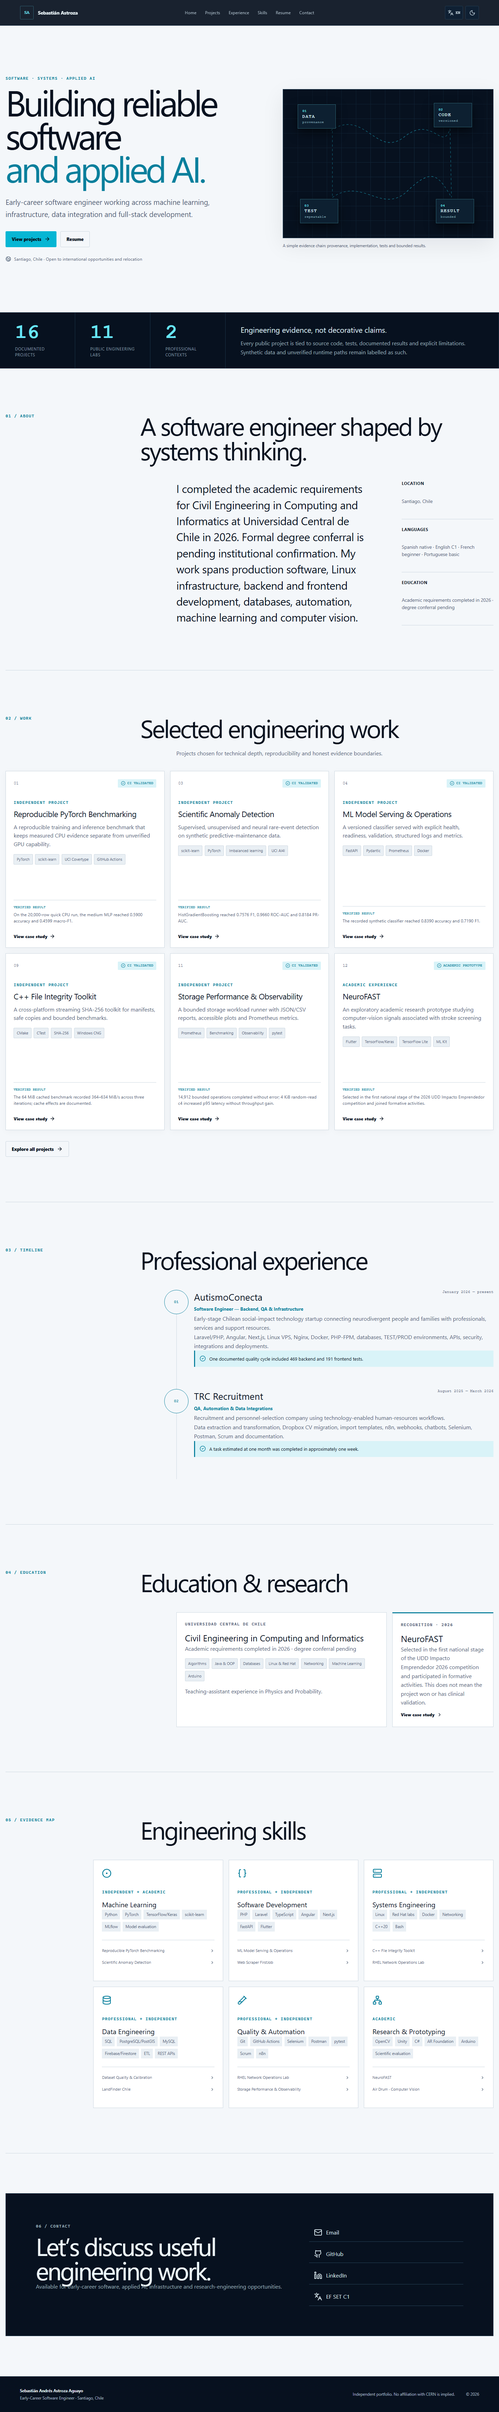
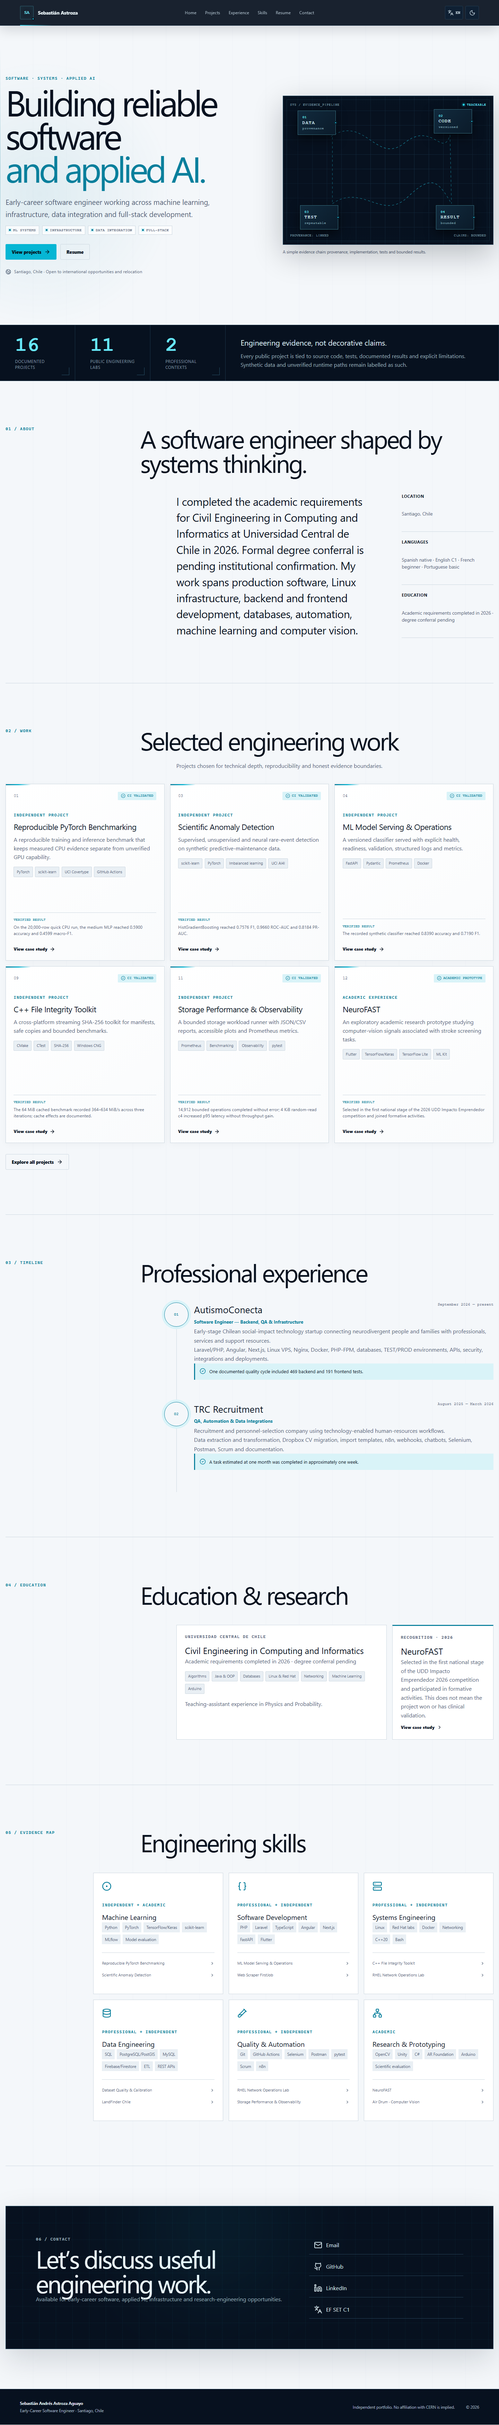
feat: refine portfolio design and correct experience details

diff --git a/src/styles.css b/src/styles.css
@@ -35,7 +35,7 @@
 
 * { box-sizing: border-box; }
 html { scroll-behavior: smooth; background: var(--bg); }
-body { min-width: 320px; min-height: 100vh; margin: 0; color: var(--ink); background: var(--bg); }
+body { min-width: 320px; min-height: 100vh; margin: 0; color: var(--ink); background-color: var(--bg); background-image: radial-gradient(circle at 8% 8%, color-mix(in srgb, var(--accent) 9%, transparent), transparent 24rem), linear-gradient(90deg, transparent 0, transparent calc(100% - 1px), color-mix(in srgb, var(--line) 32%, transparent) 100%); background-size: auto, min(8vw, 96px) 100%; }
 button, input, select { font: inherit; }
 button, a { -webkit-tap-highlight-color: transparent; }
 button { cursor: pointer; }
@@ -48,12 +48,16 @@ a { color: inherit; }
 .skip-link:focus { top: 1rem; }
 .eyebrow, .mono-label { margin: 0 0 .7rem; color: var(--accent); font-family: ui-monospace, "Cascadia Code", Consolas, monospace; font-size: .72rem; font-weight: 700; letter-spacing: .14em; text-transform: uppercase; }
 
-.site-header { position: sticky; top: 0; z-index: 50; min-height: 74px; display: grid; grid-template-columns: 1fr auto 1fr; align-items: center; gap: 1.5rem; padding: .9rem clamp(1rem, 4vw, 4.5rem); color: #e9f4f8; background: rgb(7 17 31 / .93); border-bottom: 1px solid #193247; backdrop-filter: blur(18px); }
+.site-header { position: sticky; top: 0; z-index: 50; min-height: 74px; display: grid; grid-template-columns: 1fr auto 1fr; align-items: center; gap: 1.5rem; padding: .9rem clamp(1rem, 4vw, 4.5rem); color: #e9f4f8; background: rgb(7 17 31 / .93); border-bottom: 1px solid #193247; box-shadow: 0 12px 36px rgb(3 11 20 / .14); backdrop-filter: blur(18px); }
+.site-header::after { position: absolute; bottom: -1px; left: clamp(1rem, 4vw, 4.5rem); width: 92px; height: 2px; content: ''; background: linear-gradient(90deg, #22d3ee, transparent); }
 .brand { display: inline-flex; align-items: center; gap: .8rem; width: max-content; text-decoration: none; }
-.brand span { display: grid; place-items: center; width: 39px; height: 39px; color: #67e8f9; border: 1px solid #2f6171; border-radius: 2px; font: 700 .8rem ui-monospace, monospace; }
+.brand span { position: relative; display: grid; place-items: center; width: 39px; height: 39px; color: #67e8f9; border: 1px solid #2f6171; border-radius: 2px; font: 700 .8rem ui-monospace, monospace; box-shadow: inset 0 0 18px rgb(34 211 238 / .08); }
+.brand span::after { position: absolute; right: -3px; bottom: -3px; width: 7px; height: 7px; content: ''; background: #22d3ee; border: 2px solid #07111f; }
 .brand b { font-size: .88rem; letter-spacing: -.01em; }
 .nav-links { display: flex; align-items: center; gap: .15rem; }
-.nav-links button { padding: .55rem .7rem; color: #a9bac6; background: transparent; border: 0; border-radius: 3px; font-size: .78rem; }
+.nav-links button { position: relative; padding: .55rem .7rem; color: #a9bac6; background: transparent; border: 0; border-radius: 3px; font-size: .78rem; }
+.nav-links button::after { position: absolute; right: .7rem; bottom: .25rem; left: .7rem; height: 1px; content: ''; background: #67e8f9; transform: scaleX(0); transition: transform .2s ease; }
+.nav-links button:hover::after { transform: scaleX(1); }
 .nav-links button:hover { color: white; background: #14263a; }
 .header-actions { justify-self: end; display: flex; gap: .45rem; }
 .icon-button { min-width: 39px; min-height: 39px; display: inline-flex; align-items: center; justify-content: center; gap: .35rem; padding: .45rem; color: #c7d6df; background: #0f2033; border: 1px solid #233c51; border-radius: 3px; }
@@ -61,10 +65,15 @@ a { color: inherit; }
 .language-button span { font: 700 .68rem ui-monospace, monospace; }.menu-button { display: none; }
 
 .section-frame, .content-section, .page-main { width: min(1440px, calc(100% - 2rem)); margin-inline: auto; }
-.hero { min-height: 720px; display: grid; grid-template-columns: 1.08fr .92fr; align-items: center; gap: clamp(2rem, 6vw, 7rem); padding: clamp(5rem, 10vw, 9rem) 0; }
+.hero { position: relative; min-height: 720px; display: grid; grid-template-columns: 1.08fr .92fr; align-items: center; gap: clamp(2rem, 6vw, 7rem); padding: clamp(5rem, 10vw, 9rem) 0; }
+.hero::before { position: absolute; top: 7%; bottom: 7%; left: -1rem; width: 1px; content: ''; background: linear-gradient(transparent, var(--accent), transparent); opacity: .45; }
+.hero-copy { position: relative; z-index: 1; }
 .hero h1 { margin: 0; max-width: 860px; font-size: clamp(3.3rem, 7.2vw, 7.4rem); line-height: .92; letter-spacing: -.073em; }
 .hero h1 em { color: var(--accent); font-style: normal; }
 .hero-lead { max-width: 690px; margin: 2rem 0; color: var(--muted); font-size: clamp(1.05rem, 2vw, 1.3rem); line-height: 1.7; }
+.hero-domain-row { display: flex; flex-wrap: wrap; gap: .55rem; margin: -1rem 0 1.7rem; }
+.hero-domain-row span { display: inline-flex; align-items: center; gap: .45rem; padding: .35rem .55rem; color: var(--muted); background: color-mix(in srgb, var(--surface) 76%, transparent); border: 1px solid var(--line); font: 700 .65rem ui-monospace, monospace; letter-spacing: .03em; text-transform: uppercase; }
+.hero-domain-row span::before { width: 5px; height: 5px; content: ''; background: var(--accent); box-shadow: 0 0 0 3px var(--accent-soft); }
 .hero-actions { display: flex; flex-wrap: wrap; gap: .7rem; }
 .button { display: inline-flex; align-items: center; justify-content: center; gap: .55rem; min-height: 45px; padding: .75rem 1.05rem; border: 1px solid transparent; border-radius: 3px; font-size: .8rem; font-weight: 800; text-decoration: none; }
 .button.primary { color: #031018; background: var(--accent-bright); }.button.primary:hover { background: #67e8f9; }
@@ -72,15 +81,22 @@ a { color: inherit; }
 .availability { display: flex; align-items: center; gap: .55rem; margin: 1.6rem 0 0; color: var(--muted); font-size: .78rem; }
 
 .evidence-visual { margin: 0; }
-.visual-grid { position: relative; height: min(430px, 65vw); min-height: 360px; overflow: hidden; background-color: var(--navy); background-image: linear-gradient(#142b3f 1px, transparent 1px), linear-gradient(90deg, #142b3f 1px, transparent 1px); background-size: 42px 42px; border: 1px solid #264157; box-shadow: var(--shadow); }
+.visual-grid { position: relative; height: min(430px, 65vw); min-height: 360px; overflow: hidden; background-color: var(--navy); background-image: linear-gradient(#142b3f 1px, transparent 1px), linear-gradient(90deg, #142b3f 1px, transparent 1px); background-size: 42px 42px; border: 1px solid #31566d; box-shadow: 0 28px 80px rgb(3 11 20 / .24), inset 0 0 80px rgb(34 211 238 / .035); }
+.visual-grid::before { position: absolute; inset: 10px; z-index: 3; content: ''; border: 1px solid rgb(103 232 249 / .12); pointer-events: none; }
 .visual-grid::after { content: ''; position: absolute; inset: 0; background: radial-gradient(circle at 55% 50%, transparent 5%, #07111f99 80%); pointer-events: none; }
+.visual-header, .visual-footer { position: absolute; z-index: 4; right: 1.25rem; left: 1.25rem; display: flex; justify-content: space-between; color: #71909f; font: 700 .57rem ui-monospace, monospace; letter-spacing: .08em; }
+.visual-header { top: 1.25rem; }.visual-footer { bottom: 1.25rem; }
+.trace-state { display: inline-flex; align-items: center; gap: .4rem; color: #67e8f9; }
+.trace-state::before { width: 6px; height: 6px; content: ''; background: #22d3ee; border-radius: 50%; box-shadow: 0 0 0 4px rgb(34 211 238 / .12); }
 .visual-grid svg { position: absolute; inset: 8%; width: 84%; height: 84%; fill: none; stroke: #22d3ee; stroke-width: 1.5; stroke-dasharray: 7 7; opacity: .65; }
-.node { position: absolute; z-index: 2; width: 110px; display: grid; gap: .15rem; padding: .75rem; color: #dff9ff; background: #0d2031; border: 1px solid #2e6574; box-shadow: 0 12px 30px #0008; }
+.node { position: absolute; z-index: 2; width: 110px; display: grid; gap: .15rem; padding: .75rem; color: #dff9ff; background: linear-gradient(135deg, #112a3d, #0b1b2a); border: 1px solid #3a7585; box-shadow: 0 12px 30px #0008; }
+.node::after { position: absolute; right: -4px; top: 50%; width: 7px; height: 7px; content: ''; background: #22d3ee; border: 2px solid #07111f; transform: translateY(-50%) rotate(45deg); }
 .node span { color: #67e8f9; font: 700 .65rem ui-monospace, monospace; }.node b { font: 700 .82rem ui-monospace, monospace; letter-spacing: .1em; }.node small { color: #7fa2b0; font: .65rem ui-monospace, monospace; }.node-a { left: 7%; top: 10%; }.node-b { right: 10%; top: 9%; }.node-c { left: 8%; bottom: 10%; }.node-d { right: 9%; bottom: 10%; }
 .evidence-visual figcaption { margin-top: .8rem; color: var(--muted); font-size: .72rem; line-height: 1.5; }
 
 .proof-band { display: grid; grid-template-columns: repeat(3, .55fr) 2fr; align-items: stretch; color: #d7e8ef; background: var(--navy); border-block: 1px solid #1a3449; }
-.proof-band > div { display: flex; min-height: 160px; flex-direction: column; justify-content: center; padding: 1.5rem clamp(1rem, 3vw, 3rem); border-right: 1px solid #1a3449; }
+.proof-band > div { position: relative; display: flex; min-height: 160px; flex-direction: column; justify-content: center; padding: 1.5rem clamp(1rem, 3vw, 3rem); border-right: 1px solid #1a3449; }
+.proof-band > div:not(.proof-copy)::after { position: absolute; right: 1rem; bottom: 1rem; width: 22px; height: 22px; content: ''; border-right: 1px solid #285168; border-bottom: 1px solid #285168; }
 .proof-number { color: #67e8f9; font: 600 clamp(2.5rem, 4vw, 4.5rem)/1 ui-monospace, monospace; }.proof-band > div > span:last-child { margin-top: .55rem; color: #879daa; font-size: .72rem; text-transform: uppercase; letter-spacing: .08em; }
 .proof-copy h2 { margin: 0 0 .6rem; font-size: 1.35rem; }.proof-copy p { margin: 0; color: #9db0bc; line-height: 1.6; }
 
@@ -92,16 +108,16 @@ a { color: inherit; }
 .about-grid { display: grid; grid-template-columns: 1.35fr .65fr; gap: clamp(2rem, 7vw, 8rem); margin-left: 35%; }.large-copy { margin: 0; font-size: clamp(1.2rem, 2.5vw, 2rem); line-height: 1.45; letter-spacing: -.02em; }
 .about-facts { display: grid; gap: 1.3rem; }.about-facts div { display: grid; gap: .35rem; padding-bottom: 1rem; border-bottom: 1px solid var(--line); }.about-facts b { font-size: .72rem; text-transform: uppercase; letter-spacing: .08em; }.about-facts span { color: var(--muted); font-size: .85rem; line-height: 1.5; }
 
-.project-grid { display: grid; grid-template-columns: repeat(3, 1fr); gap: 1rem; }.project-card { min-height: 510px; display: flex; flex-direction: column; padding: 1.4rem; background: var(--surface); border: 1px solid var(--line); box-shadow: 0 4px 20px rgb(7 17 31 / .035); transition: transform .2s ease, border-color .2s ease, box-shadow .2s ease; }.project-card:hover { transform: translateY(-3px); border-color: var(--accent); box-shadow: var(--shadow); }
+.project-grid { display: grid; grid-template-columns: repeat(3, 1fr); gap: 1rem; }.project-card { position: relative; min-height: 510px; display: flex; overflow: hidden; flex-direction: column; padding: 1.4rem; background: linear-gradient(145deg, var(--surface), color-mix(in srgb, var(--surface-2) 26%, var(--surface))); border: 1px solid var(--line); box-shadow: 0 4px 20px rgb(7 17 31 / .035); transition: transform .2s ease, border-color .2s ease, box-shadow .2s ease; }.project-card::before { position: absolute; top: 0; right: 0; left: 0; height: 3px; content: ''; background: linear-gradient(90deg, var(--accent), var(--accent-bright), transparent 72%); transform: scaleX(.22); transform-origin: left; transition: transform .25s ease; }.project-card:hover { transform: translateY(-4px); border-color: var(--accent); box-shadow: var(--shadow); }.project-card:hover::before { transform: scaleX(1); }
 .project-card-top { display: flex; align-items: center; justify-content: space-between; gap: .8rem; margin-bottom: 2.2rem; }.project-index { color: var(--muted); font: .72rem ui-monospace, monospace; }.status-badge { display: inline-flex; align-items: center; gap: .35rem; width: max-content; padding: .35rem .55rem; color: var(--accent); background: var(--accent-soft); border-radius: 2px; font: 700 .61rem ui-monospace, monospace; text-transform: uppercase; letter-spacing: .04em; }.status-implemented-runtime-blocked { color: #a35d10; background: #fff1d5; }.dark .status-implemented-runtime-blocked { color: #fdba74; background: #42250f; }.status-in-development { color: #6d5ab1; background: #ede9fe; }.dark .status-in-development { color: #c4b5fd; background: #27214d; }
 .project-card h3 { margin: 0 0 .8rem; font-size: 1.45rem; line-height: 1.1; letter-spacing: -.025em; }.project-card > p:not(.mono-label) { color: var(--muted); line-height: 1.55; }.tag-list { display: flex; flex-wrap: wrap; gap: .4rem; margin: 1rem 0; }.tag-list span { padding: .35rem .5rem; color: var(--muted); background: var(--surface-2); border: 1px solid var(--line); border-radius: 2px; font-size: .68rem; }
 .project-result { display: grid; gap: .35rem; margin-top: auto; padding: .9rem 0; border-top: 1px solid var(--line); }.project-result b { color: var(--accent); font: 700 .64rem ui-monospace, monospace; text-transform: uppercase; }.project-result span { color: var(--muted); font-size: .78rem; line-height: 1.45; }.card-link, .text-link { display: inline-flex; align-items: center; gap: .4rem; width: max-content; margin-top: .8rem; color: var(--ink); font-size: .78rem; font-weight: 800; text-decoration: none; }.card-link:hover, .text-link:hover { color: var(--accent); }.section-cta { margin-top: 2rem; }
 
-.timeline { margin-left: 35%; border-left: 1px solid var(--line); }.timeline article { position: relative; display: grid; grid-template-columns: 70px 1fr; gap: 1rem; margin-left: -36px; padding-bottom: 4rem; }.timeline-marker { display: grid; place-items: start center; }.timeline-marker span { display: grid; place-items: center; width: 70px; height: 70px; color: var(--accent); background: var(--bg); border: 1px solid var(--accent); border-radius: 50%; font: 700 .7rem ui-monospace, monospace; }.timeline-heading { display: flex; justify-content: space-between; gap: 2rem; }.timeline-heading h3 { margin: 0; font-size: 1.7rem; }.timeline-heading p { margin: .3rem 0; color: var(--accent); font-size: .82rem; font-weight: 700; }.timeline-heading time { color: var(--muted); font: .7rem ui-monospace, monospace; white-space: nowrap; }.timeline-content > p { color: var(--muted); line-height: 1.65; }.evidence-callout { display: flex; align-items: flex-start; gap: .6rem; padding: .85rem; color: var(--ink); background: var(--accent-soft); border-left: 3px solid var(--accent); font-size: .82rem; }.evidence-callout svg { flex: 0 0 auto; color: var(--accent); }
+.timeline { margin-left: 35%; border-left: 1px solid var(--line); }.timeline article { position: relative; display: grid; grid-template-columns: 70px 1fr; gap: 1rem; margin-left: -36px; padding-bottom: 4rem; }.timeline-marker { display: grid; place-items: start center; }.timeline-marker span { display: grid; place-items: center; width: 70px; height: 70px; color: var(--accent); background: var(--bg); border: 1px solid var(--accent); border-radius: 50%; box-shadow: 0 0 0 7px var(--accent-soft); font: 700 .7rem ui-monospace, monospace; }.timeline-heading { display: flex; justify-content: space-between; gap: 2rem; }.timeline-heading h3 { margin: 0; font-size: 1.7rem; }.timeline-heading p { margin: .3rem 0; color: var(--accent); font-size: .82rem; font-weight: 700; }.timeline-heading time { color: var(--muted); font: .7rem ui-monospace, monospace; white-space: nowrap; }.timeline-content > p { color: var(--muted); line-height: 1.65; }.evidence-callout { display: flex; align-items: flex-start; gap: .6rem; padding: .85rem; color: var(--ink); background: var(--accent-soft); border-left: 3px solid var(--accent); font-size: .82rem; }.evidence-callout svg { flex: 0 0 auto; color: var(--accent); }
 .education-grid { display: grid; grid-template-columns: 1.35fr .65fr; gap: 1rem; margin-left: 35%; }.education-grid article { padding: 1.5rem; background: var(--surface); border: 1px solid var(--line); }.education-grid h3 { font-size: 1.55rem; }.education-grid p { color: var(--muted); line-height: 1.6; }.recognition-card { border-top: 3px solid var(--accent) !important; }
 .skills-grid { display: grid; grid-template-columns: repeat(3, 1fr); gap: 1rem; margin-left: 18%; }.skills-grid article { min-height: 350px; padding: 1.5rem; background: var(--surface); border: 1px solid var(--line); }.skills-grid article > svg { width: 28px; height: 28px; margin-bottom: 2rem; color: var(--accent); }.skills-grid h3 { font-size: 1.25rem; }.skills-grid ul { display: flex; flex-wrap: wrap; gap: .4rem; padding: 0; list-style: none; }.skills-grid li { padding: .35rem .5rem; color: var(--muted); background: var(--surface-2); font-size: .72rem; }.skill-links { display: grid; gap: .4rem; margin-top: 1.5rem; padding-top: 1rem; border-top: 1px solid var(--line); }.skill-links a { display: flex; min-height: 28px; align-items: center; justify-content: space-between; color: var(--muted); font-size: .7rem; text-decoration: none; }.skill-links a:hover { color: var(--accent); }
 
-.contact-section { width: min(1440px, calc(100% - 2rem)); display: grid; grid-template-columns: 1.25fr .75fr; gap: 3rem; margin: clamp(4rem, 8vw, 8rem) auto; padding: clamp(2rem, 6vw, 6rem); color: #eff9fc; background: var(--navy); border: 1px solid #244157; }.contact-section h2 { max-width: 780px; margin: 0; font-size: clamp(2.6rem, 5vw, 5rem); line-height: .98; letter-spacing: -.055em; }.contact-section p { color: #9dafba; }.contact-links { display: grid; align-content: center; gap: .6rem; }.contact-links a { display: flex; align-items: center; gap: .7rem; padding: .85rem; color: #d9e8ee; border-bottom: 1px solid #28445a; text-decoration: none; }.contact-links a:hover { color: #67e8f9; }
+.contact-section { position: relative; width: min(1440px, calc(100% - 2rem)); display: grid; overflow: hidden; grid-template-columns: 1.25fr .75fr; gap: 3rem; margin: clamp(4rem, 8vw, 8rem) auto; padding: clamp(2rem, 6vw, 6rem); color: #eff9fc; background-color: var(--navy); background-image: linear-gradient(rgb(34 211 238 / .055) 1px, transparent 1px), linear-gradient(90deg, rgb(34 211 238 / .055) 1px, transparent 1px); background-size: 48px 48px; border: 1px solid #31566d; box-shadow: 0 30px 80px rgb(7 17 31 / .15); }.contact-section::before { position: absolute; top: -120px; left: 30%; width: 360px; height: 360px; content: ''; background: #22d3ee; border-radius: 50%; filter: blur(150px); opacity: .1; pointer-events: none; }.contact-section h2 { max-width: 780px; margin: 0; font-size: clamp(2.6rem, 5vw, 5rem); line-height: .98; letter-spacing: -.055em; }.contact-section p { color: #9dafba; }.contact-links { display: grid; align-content: center; gap: .6rem; }.contact-links a { display: flex; align-items: center; gap: .7rem; padding: .85rem; color: #d9e8ee; border-bottom: 1px solid #28445a; text-decoration: none; }.contact-links a:hover { color: #67e8f9; }
 
 .page-main { min-height: 80vh; padding: 5rem 0 8rem; }.page-hero { display: grid; grid-template-columns: .35fr 1fr; gap: 2rem; margin-bottom: 4rem; padding-bottom: 4rem; border-bottom: 1px solid var(--line); }.page-hero .eyebrow { grid-row: 1 / 3; }.page-hero h1 { grid-column: 2; }.page-hero > p:last-child { grid-column: 2; max-width: 800px; margin: 0; color: var(--muted); font-size: 1.05rem; line-height: 1.7; }
 .filter-panel { padding: 1.5rem; background: var(--surface); border: 1px solid var(--line); }.filter-heading { display: flex; align-items: flex-end; justify-content: space-between; gap: 1rem; }.filter-heading h2 { margin: 0; font-size: 1.7rem; }.text-button { padding: .5rem; color: var(--accent); background: transparent; border: 0; font-weight: 800; }.search-field { display: flex; align-items: center; gap: .7rem; margin-top: 1.5rem; padding: .4rem .8rem; background: var(--surface-2); border: 1px solid var(--line); }.search-field svg { color: var(--muted); }.search-field input { width: 100%; padding: .65rem 0; color: var(--ink); background: transparent; border: 0; outline: 0; }
@@ -122,7 +138,7 @@ footer { display: grid; grid-template-columns: 1fr auto auto; align-items: cente
 @media (max-width: 760px) {
   .site-header { min-height: 66px; padding: .75rem 1rem; }.brand b { display: none; }.nav-links { inset-block-start: 66px; }.language-button span { display: none; }
   .section-frame, .content-section, .page-main, .contact-section { width: min(100% - 1.2rem, 1440px); }.hero { min-height: auto; padding: 4.5rem 0; }.hero h1 { font-size: clamp(3rem, 15vw, 5rem); }.visual-grid { min-height: 310px; }.node { width: 94px; padding: .6rem; }.node b { font-size: .72rem; }
-  .proof-band { grid-template-columns: 1fr; }.proof-band > div { min-height: 120px; border-right: 0; border-bottom: 1px solid #1a3449; }.proof-copy { grid-column: auto; }
+  .proof-band { grid-template-columns: repeat(3, 1fr); }.proof-band > div { min-height: 108px; padding: 1rem .7rem; border-right: 1px solid #1a3449; border-bottom: 1px solid #1a3449; }.proof-band > div:nth-child(3) { border-right: 0; }.proof-band .proof-number { font-size: clamp(2rem, 10vw, 3rem); }.proof-band > div > span:last-child { font-size: .58rem; }.proof-copy { grid-column: 1 / -1; min-height: 150px !important; padding: 1.4rem 1rem !important; border-right: 0 !important; }
   .content-section { padding: 5rem 0; }.section-title, .page-hero { grid-template-columns: 1fr; gap: .8rem; }.page-hero .eyebrow { grid-row: auto; }.page-hero h1, .page-hero > p:last-child { grid-column: 1; }.section-intro, .about-grid, .timeline, .education-grid { margin-left: 0; }.about-grid, .education-grid, .contact-section, .detail-hero, .detail-layout { grid-template-columns: 1fr; }.timeline { margin-left: 34px; }.timeline-heading { flex-direction: column; gap: .4rem; }.project-grid, .skills-grid, .resume-grid { grid-template-columns: 1fr; }.project-card { min-height: 470px; }.contact-section { padding: 2rem 1.2rem; }.select-filters { grid-template-columns: 1fr; }.detail-hero { padding-top: 1rem; }.detail-layout { padding-top: 2rem; }.detail-aside { position: static; grid-row: 1; }.detail-content section { grid-template-columns: 38px 1fr; }.page-main { padding-top: 3rem; } footer { grid-template-columns: 1fr; gap: .8rem; }
 }
 

diff --git a/src/App.tsx b/src/App.tsx
@@ -51,7 +51,7 @@ const copy = {
 
 const experience = [
   {
-    company: 'AutismoConecta', period: { en: 'January 2026 — present', es: 'Enero 2026 — actualidad' },
+    company: 'AutismoConecta', period: { en: 'September 2026 — present', es: 'Septiembre 2026 — actualidad' },
     role: 'Software Engineer — Backend, QA & Infrastructure',
     description: {
       en: 'Early-stage Chilean social-impact technology startup connecting neurodivergent people and families with professionals, services and support resources.',
@@ -146,11 +146,13 @@ function Header({ language, setLanguage, theme, setTheme }: { language: Language
 function EvidenceVisual({ language }: { language: Language }) {
   return <figure className="evidence-visual" aria-labelledby="system-caption">
     <div className="visual-grid" aria-hidden="true">
+      <div className="visual-header"><span>SYS / EVIDENCE_PIPELINE</span><span className="trace-state">TRACEABLE</span></div>
       <div className="node node-a"><span>01</span><b>DATA</b><small>provenance</small></div>
       <div className="node node-b"><span>02</span><b>CODE</b><small>versioned</small></div>
       <div className="node node-c"><span>03</span><b>TEST</b><small>repeatable</small></div>
       <div className="node node-d"><span>04</span><b>RESULT</b><small>bounded</small></div>
       <svg viewBox="0 0 600 390" preserveAspectRatio="none"><path d="M105 90 C220 20 260 180 355 110 S485 160 510 85"/><path d="M110 300 C210 235 280 355 365 280 S470 230 515 300"/><path d="M110 92 L110 300 M510 85 L515 300"/></svg>
+      <div className="visual-footer"><span>PROVENANCE: LINKED</span><span>CLAIMS: BOUNDED</span></div>
     </div>
     <figcaption id="system-caption">{language === 'en' ? 'A simple evidence chain: provenance, implementation, tests and bounded results.' : 'Cadena simple de evidencia: procedencia, implementación, pruebas y resultados acotados.'}</figcaption>
   </figure>
@@ -219,11 +221,12 @@ function HomePage({ language }: { language: Language }) {
   return <main id="main-content">
     <section className="hero section-frame">
       <div className="hero-copy"><p className="eyebrow">{t.heroKicker}</p><h1>{t.heroTitleA}<br/><em>{t.heroTitleB}</em></h1><p className="hero-lead">{t.heroBody}</p>
+        <div className="hero-domain-row" aria-label={language === 'en' ? 'Engineering focus areas' : 'Áreas de enfoque de ingeniería'}>{['ML systems', 'Infrastructure', 'Data integration', 'Full-stack'].map((area) => <span key={area}>{area}</span>)}</div>
         <div className="hero-actions"><a className="button primary" href="#/projects">{t.viewProjects}<ArrowRight size={17}/></a><a className="button secondary" href="#/resume">{t.resume}</a></div>
         <p className="availability"><Globe2 size={16}/>{t.availability}</p></div>
       <EvidenceVisual language={language}/>
     </section>
-    <section className="proof-band"><div><span className="proof-number">16</span><span>{language === 'en' ? 'documented projects' : 'proyectos documentados'}</span></div><div><span className="proof-number">11</span><span>{language === 'en' ? 'public engineering labs' : 'laboratorios públicos'}</span></div><div><span className="proof-number">2</span><span>{language === 'en' ? 'professional contexts' : 'contextos profesionales'}</span></div><div className="proof-copy"><h2>{t.proofTitle}</h2><p>{t.proofBody}</p></div></section>
+    <section className="proof-band"><div><span className="proof-number">{projects.length}</span><span>{language === 'en' ? 'documented projects' : 'proyectos documentados'}</span></div><div><span className="proof-number">11</span><span>{language === 'en' ? 'public engineering labs' : 'laboratorios públicos'}</span></div><div><span className="proof-number">2</span><span>{language === 'en' ? 'professional contexts' : 'contextos profesionales'}</span></div><div className="proof-copy"><h2>{t.proofTitle}</h2><p>{t.proofBody}</p></div></section>
     <Section eyebrow="01 / About" title={t.aboutTitle}><div className="about-grid"><p className="large-copy">{t.aboutBody}</p><div className="about-facts"><div><b>{language === 'en' ? 'Location' : 'Ubicación'}</b><span>Santiago, Chile</span></div><div><b>{language === 'en' ? 'Languages' : 'Idiomas'}</b><span>{language === 'en' ? 'Spanish native · English C1 · French beginner · Portuguese basic' : 'Español nativo · Inglés C1 · Francés principiante · Portugués básico'}</span></div><div><b>{language === 'en' ? 'Education' : 'Educación'}</b><span>{t.academicPending}</span></div></div></div></Section>
     <Section eyebrow="02 / Work" title={t.featured} className="featured-section"><p className="section-intro">{t.featuredBody}</p><div className="project-grid featured-grid">{featured.map((project) => <ProjectCard key={project.slug} project={project} language={language}/>)}</div><a className="button secondary section-cta" href="#/projects">{t.allProjects}<ArrowRight size={17}/></a></Section>
     <Section id="experience" eyebrow="03 / Timeline" title={t.experience}><div className="timeline">{experience.map((item, index) => <article key={item.company}><div className="timeline-marker"><span>{String(index + 1).padStart(2, '0')}</span></div><div className="timeline-content"><div className="timeline-heading"><div><h3>{item.company}</h3><p>{item.role}</p></div><time>{item.period[language]}</time></div><p>{item.description[language]}</p><p>{item.details[language]}</p><div className="evidence-callout"><CheckCircle2 size={18}/><span>{item.result[language]}</span></div></div></article>)}</div></Section>

diff --git a/src/App.test.tsx b/src/App.test.tsx
@@ -17,7 +17,14 @@ describe('portfolio interactions', () => {
     fireEvent.click(screen.getByRole('button', { name: 'Cambiar a español' }))
     expect(screen.getByRole('heading', { name: /Construyendo software confiable/i })).toBeInTheDocument()
     expect(screen.getByText('Experiencia profesional')).toBeInTheDocument()
+    expect(screen.getByText('Septiembre 2026 — actualidad')).toBeInTheDocument()
     expect(localStorage.getItem('portfolio-language')).toBe('es')
+  })
+
+  it('uses the corrected Spanish UCEN augmented-reality project name', () => {
+    render(<ProjectExplorer language="es" />)
+    fireEvent.change(screen.getByLabelText('Buscar proyectos'), { target: { value: 'realidad aumentada' } })
+    expect(screen.getByRole('heading', { name: 'Realidad Aumentada UCEN' })).toBeInTheDocument()
   })
 
   it('toggles the accessible color theme', () => {

diff --git a/src/data/projects.ts b/src/data/projects.ts
@@ -249,7 +249,7 @@ export const projects: Project[] = [
     evidence: ['Public source repository', 'OpenCV implementation'],
   },
   {
-    slug: 'ucen-ar-prototype', name: 'UCEN Augmented Reality Prototype', categories: ['software', 'research'],
+    slug: 'ucen-ar-prototype', name: 'Realidad Aumentada UCEN', categories: ['software', 'research'],
     kind: 'Academic experience', status: 'Academic prototype', repo: 'https://github.com/sebastroza1/Prototipo-Realidad-Aumentada-Ucen-2026-08-20_21-53-25',
     languages: ['C#'], technologies: ['Unity', 'AR Foundation', 'ARCore', 'Image tracking'],
     overview: { en: 'A demonstrative academic augmented-reality prototype built with Unity and image tracking.', es: 'Prototipo académico demostrativo de realidad aumentada con Unity e image tracking.' },

diff --git a/PROJECT_EVIDENCE.md b/PROJECT_EVIDENCE.md
@@ -17,7 +17,7 @@ Audit date: 2026-10-29. “Public repository” means the portfolio links to ins
 | Storage Performance & Observability | [storage-performance-observability](https://github.com/sebastroza1/storage-performance-observability), `reports/RESULTS.md`, commit `39089ee`, CI run `40822967312` | Cached Python I/O on one host; not an SLO or distributed-storage result |
 | NeuroFAST | Owner-provided thesis/project description and UDD 2026 first-stage selection | Private academic prototype; non-clinical and not a medical device |
 | Air Drum · Computer Vision | [bateria-peroles](https://github.com/sebastroza1/bateria-peroles) | Public implementation; third-party asset licensing still needs a release audit |
-| UCEN Augmented Reality Prototype | [Prototipo-Realidad-Aumentada-Ucen](https://github.com/sebastroza1/Prototipo-Realidad-Aumentada-Ucen-2026-08-20_21-53-25) | Demonstrative academic prototype; no institutional deployment claim |
+| Realidad Aumentada UCEN | [Prototipo-Realidad-Aumentada-Ucen](https://github.com/sebastroza1/Prototipo-Realidad-Aumentada-Ucen-2026-08-20_21-53-25) | Demonstrative academic prototype; no institutional deployment claim |
 | LandFinder Chile | Owner-provided work-in-progress description | Private and in development; no metrics or production claim |
 | Web Scraper FirstJob | [Web_Scraper_firstJob](https://github.com/sebastroza1/Web_Scraper_firstJob) | Public source; live-site stability and CI coverage not claimed |
 

diff --git a/CONTENT_SOURCES.md b/CONTENT_SOURCES.md
@@ -16,7 +16,7 @@ When a higher-confidence source was unavailable, the site avoids a metric or use
 | Claim group | Source used | Public treatment |
 |---|---|---|
 | Name, location, contact links and international availability | Owner-provided portfolio brief | Published, except phone number |
-| AutismoConecta role, dates, responsibilities and 469 backend / 191 frontend test cycle | Owner-provided portfolio brief; private implementation details intentionally excluded | Published as professional experience, without infrastructure secrets or private code |
+| AutismoConecta role, September 2026 start, responsibilities and 469 backend / 191 frontend test cycle | Owner-provided portfolio brief and direct correction on 2026-10-29; private implementation details intentionally excluded | Published as professional experience, without infrastructure secrets or private code |
 | TRC Recruitme role, dates and approximately one-week completion of a one-month estimate | Owner-provided portfolio brief | Published without candidate CVs or personal data |
 | Universidad Central de Chile studies | Owner-provided portfolio brief | States academic requirements completed in 2026 and degree conferral pending |
 | Physics and Probability teaching-assistant experience | Owner-provided portfolio brief | Published without invented dates |

diff --git a/VALIDATION.md b/VALIDATION.md
@@ -6,7 +6,7 @@ Local validation date: 2026-10-29.
 |---|---|---|
 | ESLint | `npm run lint` | Passed |
 | TypeScript project build | `npm run typecheck` | Passed |
-| Component/unit tests | `npm test` | 4 passed |
+| Component/unit tests | `npm test` | 5 passed |
 | Production build | `npm run build` | Passed; 1711 modules transformed |
 | Dependency audit | `npm audit --audit-level=high` | 0 vulnerabilities |
 | Browser E2E | `npm run e2e` | 11 passed across desktop/mobile; 1 mobile-only case skipped on desktop as designed |
@@ -14,4 +14,4 @@ Local validation date: 2026-10-29.
 | Lighthouse | Lighthouse 12.8.2, production preview | Performance 100, Accessibility 100, Best Practices 100, SEO 100 |
 | Resume PDFs | File search and UI test | 0 of 4 present; links disabled |
 
-Lighthouse mobile lab metrics included 1.4 s FCP, 1.4 s LCP, 30 ms TBT and 0 CLS. These are local synthetic lab measurements, not production real-user monitoring. The concise machine-readable record is `reports/lighthouse-summary.json`.
+Lighthouse mobile lab metrics included 1.4 s FCP, 1.4 s LCP, 0 ms TBT and 0 CLS. These are local synthetic lab measurements, not production real-user monitoring. The concise machine-readable record is `reports/lighthouse-summary.json`.
